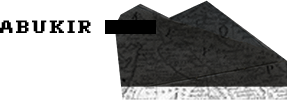
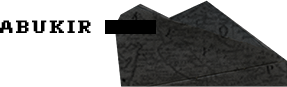
Added 1200 layout

diff --git a/app/index.html b/app/index.html
@@ -23,7 +23,7 @@
   @@include('partials/header-nav.html', {
     "theme": "theme-maroon"
   })
-  <section class="section theme-maroon">
+  <section class="section theme-maroon first-slide">
     <article class="article">
       <h1 class="article-title">
         mohamad ali of egypt
@@ -48,10 +48,13 @@
     <div class="article-content_holder article-grey visible-desktop">
       <div class="article-content">
         <p>
-          In 1801, the 32-year-old was a local merchant who’d had some success fighting bandits outside his hometown of Kavala, located between Thessaloniki and Istanbul, when the governor recruited him for an Ottoman expedition to Egypt aimed at wresting control of the territory from Mamluk pashas. They had been in power since the departure of Napoleon's French forces, three years after landing in Cairo in 1798. Muhammad Ali set sail with 299 other men on a journey of over a thousand kilometres.
+          The history of the Mediterranean Sea is full of odd constructions like “present-day Greece” or “Modern Egypt” that are inadequate descriptions of life in this region centuries ago. It is difficult enough for the most mundane of stories, but it is nearly impossible to talk about Muhammad Ali, the Ottoman Albanian commander credited with fathering contemporary Egypt, using twenty-first-century geography. After all, much of it exists because of him.
         </p>
         <p>
-          About halfway into the voyage, after several weeks of island hopping in a struggle against the meltem wind, Ali’s flotilla arrived in Crete. A landlubber like him would probably have gotten itchy talking with fellow Kavalalılar (residents of Kavala). Legend has it that a mystic from his hometown promised Ali a fortuitous journey, but there is little in the record to make one think he was credulous of soothsayers. Instead, he brought with him contacts with French, Greek and Armenian families that his merchant colleagues promised would support him in Egypt.
+          In 1801, the 32-year-old was a local merchant who’d had some success fighting bandits outside his hometown of Kavala, located between Thessaloniki and Istanbul, when the governor recruited him for an Ottoman expedition to Egypt aimed at wresting control of the territory from Mamluk pashas. They had been in power since the departure of Napoleon’s French forces, three years after landing in Cairo in 1798. Muhammad Ali set sail with 299 other men on a journey of over a thousand kilometres.
+        </p>
+        <p>
+          About halfway into the voyage, after several weeks of island hopping in a struggle against the meltem wind, Ali’s flotilla arrived in Crete. A landlubber like him would probably have gotten itchy talking with fellow Kavalalılar (residents of Kavala). Legend states that a mystic from his hometown promised Ali a fortuitous journey, but there is little in the record to make one think he was credulous of soothsayers. Instead, he brought with him contacts with French, Greek and Armenian families that his merchant colleagues promised would support him in Egypt.
         </p>
       </div>
     </div>
@@ -66,20 +69,26 @@
   <section class="section theme-fixed land-slide-1">
     <div class="article-content_holder article-white">
       <div class="article-content">
-        <p class="article-content paragraph paragraph-black">
+        <p class="paragraph-black">
           Egypt was still a long way off, but by the time Muhammad Ali arrived in Crete, he was already leading the Albanian contingent. The rare Albanian speaker that the Ottoman officers could bring themselves to respect, Muhammad Ali was a child of the port town of Kavala and was loaned money by an Armenian notable. His comfort in relating to, if not speaking with (reports say that he never mastered any language but his native Shqip, or Albanian) Turks and powerful non-Muslims afforded him a reputation and no small amount of leeway among his purported superiors.
         </p>
-        <p class="article-content paragraph paragraph-black">
+
+        <p class="paragraph-black">
           From Crete, the second leg of the journey was a straight shot through the Mediterranean’s open seas. The Ottoman rations of the time – olives, twice-baked bread and liberal pourings of arak – had to keep Muhammad Ali and his men healthy and sane and hopefully not too seasick. Within sight of Egypt a devastating storm kept them offshore for several days before they finally made landfall on March 8, months after the trip had begun.
+        </p>
+        <p class="paragraph-black">
+          The journey was far from mundane for Muhammad Ali, even if the eastern Mediterranean of the time was full of Greek captains plying the waves in similar ships. The weeks spent with Turks looking down their long noses at him and his fellow Albanians was instructive. To be an Ottoman of the early 1800s was to acknowledge the layers of identity in the Empire and perhaps even know enough to be wary of the tides of nationalism coming from Europe. Muhammad Ali was from the wealthy Balkan provinces of the Empire, an area influenced as much by merchants as by militaries. Judging by his later actions, he saw through Ottoman ostentations of superiority and saw a way to arbitrate between Empires through geography and trade. Ali demonstrated a peculiarly Balkan form of leadership, even though his children would assert an Ottoman Turkish identity.
         </p>
       </div>
     </div>
-    <img src="images/760/crete-table.png" alt="crete" class="crete-table">
+    <img src="images/760/crete-table.png" alt="crete" class="crete-table hidden-desktop">
+    <img src="images/1200/crete-table.png" alt="crete" class="crete-table visible-desktop">
+    <div class="rain visible-desktop"></div>
   </section>
 
   <section class="section theme-blue sea-slide-2">
     <div class="white-triangles"></div>
-    <div class="article-content_holder article-grey">
+    <div class="article-content_holder article-grey hidden-desktop">
       <p>
         The journey was far from mundane for
         Muhammad Ali, even if the eastern Mediterranean of the time was full of Greek captains plying the waves in similar ships. The weeks spent with Turks looking down their long noses at him and his fellow Albanians was
@@ -91,24 +100,50 @@
   </section>
 
   <div class="section theme-maroon theme-fixed land-slide-2">
-    <div class="article-content_holder">
-        <p>
-          By the time Muhammad Ali landed in Aboukir, the French had left and the local power structure had become wobbly with recriminations, double-dealings and assassinations. He was comfortable using his Albanian troops in operations not just against rebellious Mamluks, but also against Ottoman allies who stood in his way. Clever enough to win the imprimatur of the sheikh of al-Azhar University, the captain of a band of Albanians was governor of Egypt by 1805. Six years later, he would decimate the remaining  Mamluks, conquer Cairo and turn 42.
-        </p>
-        <p>
-          By the time Muhammad Ali landed in Aboukir, the French had left and the local power structure had become wobbly with recriminations, double-dealings and assassinations. He was comfortable using his Albanian troops in operations not just against rebellious Mamluks, but also against Ottoman allies who stood in his way. Clever enough to win the imprimatur of the sheikh of al-Azhar University, the captain of a band of Albanians was governor of Egypt by 1805. Six years later, he would decimate the remaining  Mamluks, conquer Cairo and turn 42.
-        </p>
-        <p>
-          The canniness of Muhammad Ali’shis rule – and his global aspirations – would seem to believe contemporary assertions that he never learned Arabic, besides for prayer. What is clear is that he filled Egypt’s power vacuum with men he trusted (many of whom were also Albanian), and yet his worldview was much larger than Kavala or even Cairo.
-        </p>
-        <p>
-          Infrastructural projects – such as expanding the port of Alexandria and building a navy that could compete with the Ottomans – were funded with the help of the great Greek merchants of Anatolia and the Aegean. He also raided the civil servants of rival nations: the Izmir-born Armenian Boghos Youssefian became a minister of commerce, shipping goods from Alexandria to America and Europe. The Italo-Frenchman Bernardino Drovetti, a French diplomat, extolled the wonders of Muhammad Ali’s regime to Europeans and dealt in smuggled and raided antiquities.
-        </p>
-      </div>
-      <div class="ma-warriors"></div>
+    <div class="article-content_holder visible-desktop article-white">
+      <p class="paragraph-black">
+        By the time Muhammad Ali landed in Aboukir, the French had left and the local power structure had become wobbly with recriminations, double-dealings and assassinations. He was comfortable using his Albanian troops in operations not just against rebellious Mamluks, but also against Ottoman allies who stood in his way. Clever enough to win the imprimatur of the sheikh of al-Azhar University, the captain of a band of Albanians was governor of Egypt by 1805. Six years later, he would decimate the remaining  Mamluks, conquer Cairo and turn 42.
+      </p>
+      <p class="paragraph-black">
+        By the time Muhammad Ali landed in Aboukir, the French had left and the local power structure had become wobbly with recriminations, double-dealings and assassinations. He was comfortable using his Albanian troops in operations not just against rebellious Mamluks, but also against Ottoman allies who stood in his way. Clever enough to win the imprimatur of the sheikh of al-Azhar University, the captain of a band of Albanians was governor of Egypt by 1805. Six years later, he would decimate the remaining  Mamluks, conquer Cairo and turn 42.
+      </p>
+      <p class="paragraph-black">
+        The canniness of Muhammad Ali’shis rule – and his global aspirations – would seem to believe contemporary assertions that he never learned Arabic, besides for prayer. What is clear is that he filled Egypt’s power vacuum with men he trusted (many of whom were also Albanian), and yet his worldview was much larger than Kavala or even Cairo.
+      </p>
+      <p class="paragraph-black">
+        Infrastructural projects – such as expanding the port of Alexandria and building a navy that could compete with the Ottomans – were funded with the help of the great Greek merchants of Anatolia and the Aegean. He also raided the civil servants of rival nations: the Izmir-born Armenian Boghos Youssefian became a minister of commerce, shipping goods from Alexandria to America and Europe. The Italo-Frenchman Bernardino Drovetti, a French diplomat, extolled the wonders of Muhammad Ali’s regime to Europeans and dealt in smuggled and raided antiquities.
+      </p>
+    </div>
+    <div class="article-content_holder hidden-desktop">
+      <p>
+        By the time Muhammad Ali landed in Aboukir, the French had left and the local power structure had become wobbly with recriminations, double-dealings and assassinations. He was comfortable using his Albanian troops in operations not just against rebellious Mamluks, but also against Ottoman allies who stood in his way. Clever enough to win the imprimatur of the sheikh of al-Azhar University, the captain of a band of Albanians was governor of Egypt by 1805. Six years later, he would decimate the remaining  Mamluks, conquer Cairo and turn 42.
+      </p>
+      <p>
+        By the time Muhammad Ali landed in Aboukir, the French had left and the local power structure had become wobbly with recriminations, double-dealings and assassinations. He was comfortable using his Albanian troops in operations not just against rebellious Mamluks, but also against Ottoman allies who stood in his way. Clever enough to win the imprimatur of the sheikh of al-Azhar University, the captain of a band of Albanians was governor of Egypt by 1805. Six years later, he would decimate the remaining  Mamluks, conquer Cairo and turn 42.
+      </p>
+      <p>
+        The canniness of Muhammad Ali’shis rule – and his global aspirations – would seem to believe contemporary assertions that he never learned Arabic, besides for prayer. What is clear is that he filled Egypt’s power vacuum with men he trusted (many of whom were also Albanian), and yet his worldview was much larger than Kavala or even Cairo.
+      </p>
+      <p>
+        Infrastructural projects – such as expanding the port of Alexandria and building a navy that could compete with the Ottomans – were funded with the help of the great Greek merchants of Anatolia and the Aegean. He also raided the civil servants of rival nations: the Izmir-born Armenian Boghos Youssefian became a minister of commerce, shipping goods from Alexandria to America and Europe. The Italo-Frenchman Bernardino Drovetti, a French diplomat, extolled the wonders of Muhammad Ali’s regime to Europeans and dealt in smuggled and raided antiquities.
+      </p>
+    </div>
+    <div class="ma-warriors"></div>
+    <div class="clearfix"></div>
   </div>
   <section class="section theme-fixed ma-last">
-    <div class="article-content_holder article-white">
+    <div class="article-content_holder article-white visible-desktop">
+      <p>
+        Muhammad Ali was power hungry and saw his Egypt as the centre of the world. While this meant inviting foreigners in to do business, it also meant that Arabic speakers were at a disadvantage during his reign and that his warmongering killed thousands. Syria, Crete and Sudan turned to face a man known in Turkish as “Mohammed Ali from Kavala.” It was in Kavala that Muhammad Ali learned to trust people by their skills, not by their mother tongue – hence his comfort with French, Greek, Turkish and Armenian speakers coming to Egypt en masse and creating communities there.
+      </p>
+      <p>
+        But just as modernising inadequately describes the nineteenth century Middle East, so Europeanising may attribute to Muhammad Ali something he never set out to do. His goal was not to ape Europe, no matter how much some Europeans wish that were true. Instead, Muhammad Ali may have been drawing on the best parts of his Rumelian heritage: French schooling, a polyglot bureaucracy and a multiconfessional ministry. The goal was not to modernise or Europeanise Egypt, but rather to Balkanise.
+      </p>
+      <p>
+        In Muhammad Ali’s nineteenth century, the Balkans was the economic, agricultural and in many ways spiritual pinnacle of the Ottoman Empire. It is no wonder that the Austrians, Russians and not to mention the locals all wanted a piece of it. Muhammad Ali may have been the last world leader to see the Balkans not as a pie to be divided, but as a model worthy of emulation. When he set sail from Kavala, his Albanian roots were not in competition with the Greek, Serbian, Macedonian, Jewish and countless other descriptors of the land, and nationalism hadn’t yet taken its horrific toll.
+      </p>
+    </div>
+    <div class="article-content_holder article-white hidden-desktop">
       <p>
         The journey was far from mundane for Muhammad Ali, even if the eastern Mediterranean of the time was full of Greek captains plying the waves in similar ships. The weeks spent with Turks looking down their long noses at him and his fellow Albanians was instructive. To be an Ottoman of the early 1800s was to acknowledge the layers of identity in the Empire and perhaps even know enough to be wary of the tides of nationalism coming from Europe. Muhammad Ali was from the wealthy Balkan provinces of the Empire, an area influenced as much by merchants as by militaries. Judging by his later actions, he saw through Ottoman ostentations of superiority and figured out a way to arbitrate between empires through geography and trade. Ali demonstrated a peculiarly Balkan form of leadership, even though his children would assert an Ottoman Turkish identity.
       </p>

diff --git a/app/styles/ma.scss b/app/styles/ma.scss
@@ -11,14 +11,17 @@
     margin-top: 100px;
   }
 }
+.first-slide {
+  padding: 0;
+}
 .kavala {
   width: 246px;
-  height: 153px;
+  height: 140px;
   background-image: url('../images/320/kavala.png');
   background-repeat: no-repeat;
   position: absolute;
   right: 0;
-  top: -50px;
+  top: -70px;
   z-index: 2;
 }
 .black-triangles {
@@ -174,7 +177,7 @@
     width: 606px;
     height: 276px;
     position: relative;
-    margin-bottom: -85px;
+    margin-bottom: -17px;
     margin-right: 30px;
     margin-left: auto;
     background-image: url('../images/760/abukir.png');
@@ -199,5 +202,114 @@
 }
 
 @media (min-width: $bp-2) {
+  .sea-slide-1 {
+    height:500px;
 
+    .article-content_holder  {
+      position: absolute;
+      top: -150px;
+      height: calc(100% + 190px);
+      overflow-y: scroll;
+    }
+  }
+  .first-slide {
+    padding-bottom: 50px;
+  }
+  .kavala {
+    width: 364px;
+    height: 293px;
+    margin-right:0;
+    background-image: url('../images/1200/kavala.png');
+  }
+  .black-triangles {
+    width: 100%;
+    height: 618px;
+    top: -120px;
+    background-image: url('../images/1200/black-triangles.png');
+  }
+
+  .main-boat {
+    width:173px;
+    height:177px;
+    background-image: url('../images/1200/main-boat.png');
+  }
+
+  .boat-3 {
+    width: 75px;
+    height: 63px;
+    left: 870px;
+    top: 140px;
+    background-image: url('../images/1200/boat-3.png');
+  }
+  .boat-12 {
+    width:138px;
+    height: 102px;
+    left: 700px;
+    background-image: url('../images/1200/boat-12.png');
+  }
+  .crete-table {
+    width: auto;
+    position:absolute;
+    right:0;
+    bottom:138px;
+  }
+  .land-slide-1 {
+    padding-bottom: 138px;
+    .article-content_holder {
+      position: relative;
+      top: 30px;
+      height: 765px;
+      overflow-y: scroll;
+    }
+    .rain {
+      width:100%;
+      height:138px;
+      position: absolute;
+      bottom:0;
+      background-image: url('../images/1200/rain.png');
+    }
+  }
+
+  .abukir {
+    width:506px;
+    height:182px;
+    background-image: url('../images/1200/abukir.png');
+  }
+  .sea-slide-2 {
+    display: flex;
+  }
+
+  .land-slide-2 {
+    display: inline-block;
+    padding-bottom: 300px;
+    .article-content_holder  {
+      position: relative;
+      top: -30px;
+      height: 775px;
+      overflow-y: scroll;
+      opacity: 1;
+    }
+  }
+  .ma-warriors {
+    position: absolute;
+    background-image: url('../images/1200/warriors.png');
+    width:627px;
+    height:551px;
+    left: 530px;
+    bottom: -57px;
+    margin:0;
+  }
+  .white-triangles {
+    height: 943px;
+    background-image: url('../images/1200/white-triangles.png');
+  }
+  .ma-last {
+    .article-content_holder {
+      position: relative;
+      top: -30px;
+      margin-top:0;
+      z-index: 4;
+      opacity: 1;
+    }
+  }
 }

diff --git a/gulpfile.js b/gulpfile.js
@@ -6,6 +6,7 @@ var $ = require('gulp-load-plugins')();
 var browserSync = require('browser-sync');
 var notify = require('gulp-notify');
 var reload = browserSync.reload;
+var htmlClean = require('gulp-htmlclean');
 
 gulp.task('styles', function () {
   return gulp.src('app/styles/main.scss')
@@ -41,7 +42,9 @@ gulp.task('html', ['fileinclude', 'styles'], function () {
     .pipe(assets.restore())
     .pipe($.useref())
     .pipe($.if('.tmp/*.html', $.minifyHtml({conditionals: true, loose: true})))
-    .pipe(gulp.dest('dist'));
+    .pipe(gulp.dest('./dist'))
+    .pipe($.if('./dist/*.html', htmlClean({})))
+    .pipe(gulp.dest('./dist'))
 });
 
 gulp.task('images', function () {
@@ -126,7 +129,7 @@ gulp.task('fileinclude', function() {
     .pipe(gulp.dest('.tmp/'));
 });
 
-gulp.task('build', ['jshint', 'html', 'images', 'fonts', 'extras'], function () {
+gulp.task('build', ['clean', 'jshint', 'html', 'images', 'fonts', 'extras'], function () {
   return gulp.src('dist/**/*').pipe($.size({title: 'build', gzip: true}));
 });
 

diff --git a/app/styles/base.scss b/app/styles/base.scss
@@ -26,6 +26,10 @@ body {
   width:100%;
   height: 100%;
 }
+.clearfix {
+  clear:both;
+  display: block;
+}
 .browserupgrade {
   margin: 0.2em 0;
   background: #ccc;
@@ -37,7 +41,6 @@ body {
   width:100%;
   position: relative;
   @include background(url("../images/background-white.jpg"));
-
 }
 .paragraph-black {
   color: #000;
@@ -47,9 +50,9 @@ body {
 }
 @media (min-width: $bp-2) {
   .hidden-desktop {
-    display: none;
+    display: none !important;
   }
   .visible-desktop {
-    display: inline-block;
+    display: inline-block !important;
   }
 }

diff --git a/app/styles/article.scss b/app/styles/article.scss
@@ -33,8 +33,8 @@
     font-size: 16px;
     line-height: 25px;
   }
-  p:nth-child(2n+2) {
-    margin-top: 15px;
+  p:not(:last-child) {
+    margin-bottom: 15px;
   }
 }
 .article-grey {

diff --git a/app/styles/slants.scss b/app/styles/slants.scss
@@ -34,3 +34,9 @@
     @include transform(skewY(-3.2deg));
   }
 }
+
+@media (min-width: $bp-2) {
+  .slant-up {
+    height: 90px;
+  }
+}
